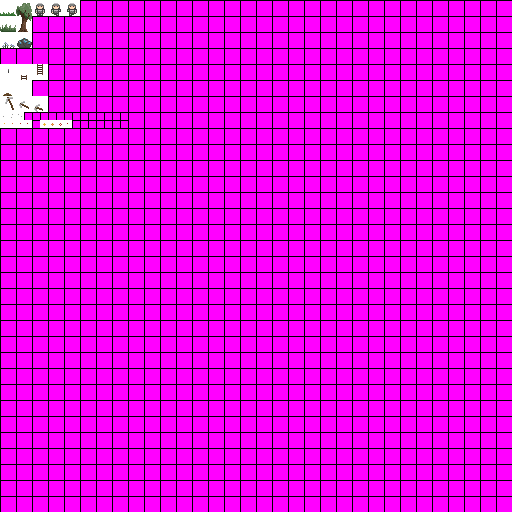
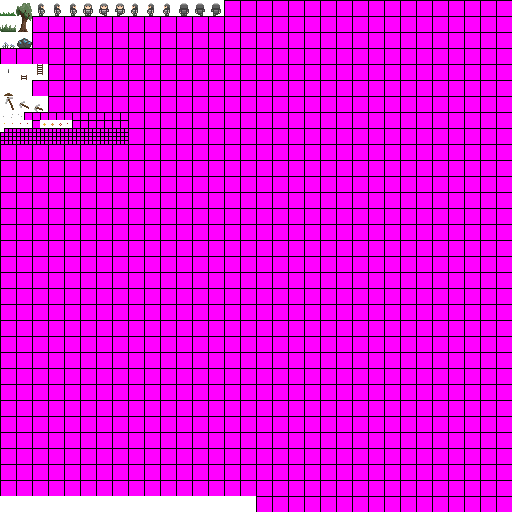
features + fixes

Changed region(s): [[0.0, 0.9688, 0.5, 1.0], [0.0625, 0.0, 0.4375, 0.0312], [0.0, 0.25, 0.25, 0.2812]]

diff --git a/core/src/ru/znay/znay/tt/GoldMiner.java b/core/src/ru/znay/znay/tt/GoldMiner.java
@@ -24,6 +24,7 @@ public class GoldMiner extends Game {
 
     private PerspectiveCamera camera;
     private OrthographicCamera scaledCamera;
+    private OrthographicCamera guiCamera;
     private FrameBuffer sceneBuffer;
 
     private int tickTime = 0;
@@ -41,7 +42,7 @@ public class GoldMiner extends Game {
 
         camera = new PerspectiveCamera(70.0f, C.WIDTH, C.HEIGHT);
         camera.near = 1f;
-        camera.far = 300f;
+        camera.far = 2000f;
         camera.update();
 
         scaledCamera = new OrthographicCamera();
@@ -50,6 +51,11 @@ public class GoldMiner extends Game {
         scaledCamera.update();
 
         viewport = new ExtendViewport(C.WIDTH, C.HEIGHT, scaledCamera);
+
+        guiCamera = new OrthographicCamera();
+        guiCamera.position.set(C.WIDTH / 2.0f, C.HEIGHT / 2.0f, 0);
+        guiCamera.setToOrtho(true, C.WIDTH, C.HEIGHT);
+        guiCamera.update();
 
         Gdx.gl.glEnable(GL20.GL_DEPTH_TEST);
         Gdx.gl.glDepthMask(true);
@@ -154,6 +160,8 @@ public class GoldMiner extends Game {
         sb.reset();
 
         renderPlayerItem(sb);
+        renderGui();
+
         sceneBuffer.end();
 
         scaledCamera.update();
@@ -165,13 +173,33 @@ public class GoldMiner extends Game {
         sb2d.setProjectionMatrix(scaledCamera.combined);
         sb2d.begin();
         sb2d.draw(sceneBuffer.getColorBufferTexture(), 0, 0);
-        renderGui(sb2d);
         sb2d.end();
         Gdx.gl.glEnable(GL20.GL_CULL_FACE);
     }
 
-    private void renderGui(SpriteBatch sb2d) {
-        //Art.i.font.draw(sb2d, "FPS: " + Gdx.graphics.getFramesPerSecond(), 1, 1);
+    private void renderGui() {
+        guiCamera.update();
+        Gdx.gl.glDisable(GL20.GL_CULL_FACE);
+
+        SpriteBatch sb2d = Art.i.spriteBatch2D;
+        sb2d.setProjectionMatrix(guiCamera.combined);
+        sb2d.begin();
+
+
+        int x = 2;
+        int y = 2;
+
+        Art.i.drawString(sb2d, "HP", x, y, Color.GOLD);
+        Art.i.drawProgressBar(sb2d, x + 16, y, 6, C.BAR_HP_COLOR, C.BAR_EMPTY_COLOR, player.health / (float) player.maxHealth, 5);
+
+        y += 6;
+
+        Art.i.drawString(sb2d, "ST", x, y, Color.GOLD);
+        Art.i.drawProgressBar(sb2d, x + 16, y, 6, C.BAR_ST_COLOR, C.BAR_EMPTY_COLOR, player.stamina / (float) player.maxStamina, 5);
+
+
+        sb2d.end();
+        Gdx.gl.glEnable(GL20.GL_CULL_FACE);
     }
 
     private void renderPlayerItem(SpriteBatch3D sb) {
@@ -217,11 +245,15 @@ public class GoldMiner extends Game {
         Gdx.gl.glEnable(GL20.GL_BLEND);
         Gdx.gl.glBlendFunc(GL20.GL_SRC_ALPHA, GL20.GL_ONE_MINUS_SRC_ALPHA);
 
+
+
         pb.begin(Art.i.planeShader, camera);
+        level.applyToShader(Art.i.planeShader);
         pb.render();
         pb.end();
 
         sb.begin(Art.i.billboardShader, camera);
+        level.applyToShader(Art.i.billboardShader);
         sb.render();
         sb.end();
     }

diff --git a/core/src/ru/znay/znay/tt/level/Level.java b/core/src/ru/znay/znay/tt/level/Level.java
@@ -12,6 +12,7 @@ import ru.znay.znay.tt.entity.Player;
 import ru.znay.znay.tt.entity.ore.Ore;
 import ru.znay.znay.tt.gfx.*;
 import ru.znay.znay.tt.gfx.light.Light;
+import ru.znay.znay.tt.gfx.shader.Shader;
 import ru.znay.znay.tt.level.block.*;
 import ru.znay.znay.tt.particle.Particle;
 
@@ -26,12 +27,13 @@ public class Level {
     public final int w;
     public final int h;
     public final GoldMiner game;
+    public final float illumination;
     public Block[] blocks;
     public Block solidWall = new WaterBlock(null, -1, -1);
     public List<Entity> entities = new ArrayList<Entity>();
     public List<Light> lights = new ArrayList<Light>();
     public List<Particle> particles = new ArrayList<Particle>();
-
+    public Player player;
 
     private static Vector3[] colors = {
             new Vector3(1.0f, 1.0f, 1.0f),
@@ -66,6 +68,7 @@ public class Level {
         this.h = h;
         this.level = level;
         this.blocks = new Block[w * h];
+        this.illumination = level >= 0 ? 1.0f : 1.0f / (Math.abs(level) + 1);
     }
 
     public static Level loadLevel(GoldMiner game, int level) {
@@ -161,8 +164,10 @@ public class Level {
         if (col == 0x008C00) return new TreeBlock(this, x, z);
         if (col == 0xFF7921) return new TorchBlock(this, x, z);
         if (col == 0x821C1C) return new FireBlock(this, x, z);
-        if ((col & 0xFF00FF) == 0xFF00FF && ((col >> 8) & 0xFF) < 0x80) return new StairBlock(this, x, z, false, (col >> 8) & 0xff);
-        if ((col & 0xFF00FF) == 0xFF00FF && ((col >> 8) & 0xFF) > 0x80) return new StairBlock(this, x, z, true, 128 - ((col >> 8) & 0xff));
+        if ((col & 0xFF00FF) == 0xFF00FF && ((col >> 8) & 0xFF) < 0x80)
+            return new StairBlock(this, x, z, false, (col >> 8) & 0xff);
+        if ((col & 0xFF00FF) == 0xFF00FF && ((col >> 8) & 0xFF) > 0x80)
+            return new StairBlock(this, x, z, true, 128 - ((col >> 8) & 0xff));
         if (col == 0x00A08D) return new WaterBlock(this, x, z);
         return new Block(this, x, z);
     }
@@ -171,6 +176,9 @@ public class Level {
         entities.add(e);
         e.init(this);
         e.updatePos();
+        if (e instanceof Player) {
+            this.player = (Player) e;
+        }
     }
 
     public void addParticle(Particle p) {
@@ -315,5 +323,9 @@ public class Level {
                 }
             }
         }
+    }
+
+    public void applyToShader(Shader shader) {
+        shader.shaderProgram.setUniformf("u_illumination", illumination);
     }
 }

diff --git a/core/src/ru/znay/znay/tt/gfx/Art.java b/core/src/ru/znay/znay/tt/gfx/Art.java
@@ -1,14 +1,17 @@
 package ru.znay.znay.tt.gfx;
 
 import com.badlogic.gdx.Gdx;
+import com.badlogic.gdx.graphics.Color;
 import com.badlogic.gdx.graphics.Pixmap;
 import com.badlogic.gdx.graphics.Texture;
 import com.badlogic.gdx.graphics.g2d.BitmapFont;
 import com.badlogic.gdx.graphics.g2d.SpriteBatch;
+import com.badlogic.gdx.graphics.g2d.TextureRegion;
 import com.badlogic.gdx.graphics.glutils.ShaderProgram;
 import ru.znay.znay.tt.gfx.light.ShadowMap;
 import ru.znay.znay.tt.gfx.shader.*;
 import ru.znay.znay.tt.tool.R;
+
 
 /**
  * Created by admin on 19.06.2016.
@@ -34,9 +37,9 @@ public class Art {
         sheet = R.i.register(new Texture(Gdx.files.internal("sheet.png")));
         blocks = R.i.register(new Texture(Gdx.files.internal("blocks.png")));
         dithering = R.i.register(createDitheringTexture());
-        font = R.i.register(new BitmapFont(Gdx.files.internal("fonts/font.fnt"), true));
-        font.getRegion().getTexture().setFilter(Texture.TextureFilter.Nearest, Texture.TextureFilter.Nearest);
-        font.getData().setScale(0.2f);
+        font = R.i.register(new BitmapFont(Gdx.files.internal("fonts/font8h.fnt"), true));
+        //font.getRegion().getTexture().setFilter(Texture.TextureFilter.Nearest, Texture.TextureFilter.Nearest);
+        //font.getData().setScale(0.2f);
         planeBatch = R.i.register(new PlaneBatch(3500, blocks));
         spriteBatch2D = R.i.register(new SpriteBatch());
         billboardBatch = R.i.register(new SpriteBatch3D(3500, sheet));
@@ -92,5 +95,23 @@ public class Art {
         Texture levelTexture = R.i.register(new Texture(Gdx.files.internal(filePath)));
         levelTexture.getTextureData().prepare();
         return R.i.register(levelTexture.getTextureData().consumePixmap());
+    }
+
+    public void drawString(SpriteBatch sb2d, String msg, int x, int y, Color color) {
+        Art.i.font.setColor(Color.GRAY);
+        Art.i.font.draw(sb2d, msg, x - 1, y);
+        Art.i.font.setColor(color);
+        Art.i.font.draw(sb2d, msg, x, y);
+    }
+
+    public void drawProgressBar(SpriteBatch sb2d, float x, float y, int width, Color fill, Color empty, float p, float scale) {
+        for (int i = 0; i < width; i++) {
+            sb2d.setColor(fill);
+            if ((i + 1) / (float) width > p) {
+                sb2d.setColor(empty);
+            }
+            sb2d.draw(Art.i.sheet, x + i * scale, y, scale, scale, 0, 16 * 8, 1, 1, false, false);
+        }
+        sb2d.setColor(Color.WHITE);
     }
 }

diff --git a/core/src/ru/znay/znay/tt/entity/Player.java b/core/src/ru/znay/znay/tt/entity/Player.java
@@ -19,10 +19,15 @@ public class Player extends Mob {
     public float turnBob = 0.0f;
     public Item item = Item.pick;
     public int itemUseTime = 0;
+    public int stamina;
+    public int staminaRecharge;
+    public int staminaRechargeDelay;
+    public int maxStamina = 10;
 
     public Player(float x, float y, float z) {
         super(x, y, z);
         rot = (float) -Math.PI / 2.0f;
+        stamina = maxStamina;
     }
 
     public void tick(boolean up, boolean down, boolean left, boolean right, boolean turnLeft, boolean turnRight) {
@@ -35,6 +40,22 @@ public class Player extends Mob {
                     interact(x - (float) Math.sin(rot) * 8.0f, -4 - random.nextInt(3), z - (float) Math.cos(rot) * 8.0f);
                     item.animation.stop();
                 }
+            }
+        }
+
+        if (stamina <= 0 && staminaRechargeDelay == 0 && staminaRecharge == 0) {
+            staminaRechargeDelay = 40;
+        }
+
+        if (staminaRechargeDelay > 0) {
+            staminaRechargeDelay--;
+        }
+
+        if (staminaRechargeDelay == 0) {
+            staminaRecharge++;
+            while (staminaRecharge > 10) {
+                staminaRecharge -= 10;
+                if (stamina < maxStamina) stamina++;
             }
         }
 
@@ -56,8 +77,10 @@ public class Player extends Mob {
         xm /= dd;
         zm /= dd;
 
-        xa += (xm * Math.cos(rot) + zm * Math.sin(rot)) * walkSpeed;
-        za += (zm * Math.cos(rot) - xm * Math.sin(rot)) * walkSpeed;
+        if (staminaRechargeDelay % 2 == 0) {
+            xa += (xm * Math.cos(rot) + zm * Math.sin(rot)) * walkSpeed;
+            za += (zm * Math.cos(rot) - xm * Math.sin(rot)) * walkSpeed;
+        }
 
         move();
 
@@ -94,8 +117,17 @@ public class Player extends Mob {
     }
 
     public void use() {
+        if (stamina == 0) return;
         if (item == null) return;
         if (itemUseTime > 0) return;
+        stamina--;
+        staminaRecharge = 0;
         itemUseTime = item.animation.time * item.animation.frames;
+    }
+
+    public boolean payStamina(int cost) {
+        if (cost > stamina) return false;
+        stamina -= cost;
+        return true;
     }
 }

diff --git a/core/src/ru/znay/znay/tt/entity/Enemy.java b/core/src/ru/znay/znay/tt/entity/Enemy.java
@@ -25,14 +25,21 @@ public class Enemy extends Mob {
         xa *= friction;
         za *= friction;
         tickTime++;
-        int frame = steps[(int)movement / 10 % steps.length];
+        int frame = steps[(int) movement / 10 % steps.length];
+        if (level.player != null) {
+            float r = level.player.rot - rot;
+            while (r <= -Math.PI) r += Math.PI * 2.0;
+            while (r >= Math.PI) r -= Math.PI * 2.0;
+            int f = (int) Math.floor(r * 4 / (Math.PI * 2.0) - 0.5) & 3;
+            frame += f * 3;
+        }
         sprite.set(32 + frame * 16, 0, 16, 16);
     }
 
     protected Order getNextOrder() {
         Order order = Order.idle;
         if (Math.random() < 0.2) {
-           // order = new MoveOrder(x + (float)(Math.random() * 2.0 - 1.0) * 8.0f, z + (float)(Math.random() * 2.0 - 1.0) * 8.0f);
+            // order = new MoveOrder(x + (float)(Math.random() * 2.0 - 1.0) * 8.0f, z + (float)(Math.random() * 2.0 - 1.0) * 8.0f);
         }
         return order;
     }

diff --git a/core/src/ru/znay/znay/tt/entity/ore/Ore.java b/core/src/ru/znay/znay/tt/entity/ore/Ore.java
@@ -1,6 +1,7 @@
 package ru.znay.znay.tt.entity.ore;
 
 import ru.znay.znay.tt.entity.Entity;
+import ru.znay.znay.tt.entity.Player;
 import ru.znay.znay.tt.entity.item.Item;
 import ru.znay.znay.tt.gfx.Sprite3D;
 import ru.znay.znay.tt.particle.CrashParticle;
@@ -22,9 +23,9 @@ public class Ore extends Entity {
         }
     }
 
-    public void interactWith(Entity e, Item item, float xx, int yy, float zz) {
+    public void interactWith(Player player, Item item, float xx, int yy, float zz) {
         if (removed) return;
-        if (item == Item.pick) {
+        if (item == Item.pick && player.payStamina(4)) {
             for (int j = 0; j < 10; j++) {
                 level.addParticle(new SparkParticle(xx, yy, zz));
             }
@@ -43,6 +44,7 @@ public class Ore extends Entity {
                 }
                 spriteLife = 5;
             }
+
         }
     }
 }

diff --git a/core/src/ru/znay/znay/tt/C.java b/core/src/ru/znay/znay/tt/C.java
@@ -6,12 +6,17 @@ import com.badlogic.gdx.graphics.Color;
  * Created by admin on 18.06.2016.
  */
 public class C {
-    public static final int WIDTH = 160;
-    public static final int HEIGHT = WIDTH * 9 / 12;
-    public static final int DESKTOP_SCALE = 512 / WIDTH;
+    public static final int WIDTH = 320;
+    public static final int HEIGHT = WIDTH * 9 / 12 ;
+    public static final int DESKTOP_SCALE = 1024 / WIDTH;
 
     public static final int DEPTH_MAP_SIZE = WIDTH;
 
     public static Color FOG_COLOR = new Color(0.0f, 0.0f, 0.1f, 1.0f);
+
+    public static float BAR_ALPHA = 0.9f;
+    public static Color BAR_HP_COLOR = new Color(1.0f, 0.3f, 0.1f, BAR_ALPHA);
+    public static Color BAR_ST_COLOR = new Color(1.0f, 1.0f, 0.2f, BAR_ALPHA);
+    public static Color BAR_EMPTY_COLOR = new Color(0.5f, 0.5f, 0.5f, BAR_ALPHA);
 
 }

diff --git a/core/src/ru/znay/znay/tt/level/block/FireBlock.java b/core/src/ru/znay/znay/tt/level/block/FireBlock.java
@@ -23,10 +23,12 @@ public class FireBlock extends Block {
     public void tick(Level level) {
         super.tick(level);
         if (level.tickTime % 2 == 0) {
-            float x = (random.nextFloat() - 0.5f) * 5.0f;
-            float z = (random.nextFloat() - 0.5f) * 5.0f;
-            Particle p = new FireParticle(xt * 16 + x, -6, zt * 16 + z);
-            level.addParticle(p);
+            for (int i = 0; i < random.nextInt(5); i++) {
+                float x = (random.nextFloat() - 0.5f) * 4.0f;
+                float z = (random.nextFloat() - 0.5f) * 4.0f;
+                Particle p = new FireParticle(xt * 16 + x, -6, zt * 16 + z);
+                level.addParticle(p);
+            }
         }
         if (level.tickTime % 60 == 0) {
             pointLight.needsUpdate = true;

diff --git a/core/src/ru/znay/znay/tt/entity/Mob.java b/core/src/ru/znay/znay/tt/entity/Mob.java
@@ -9,9 +9,13 @@ public class Mob extends Entity {
     public float rotSpeed = 0.02f;
     public float walkSpeed = 0.23f;
     public Order order = Order.idle;
+    public int health;
+    public int maxHealth;
 
     public Mob(float x, float y, float z) {
         super(x, y, z);
+        health = maxHealth = 10;
+        health -= 3;
     }
 
     public final void setOrder(Order order) {

diff --git a/core/src/ru/znay/znay/tt/entity/Entity.java b/core/src/ru/znay/znay/tt/entity/Entity.java
@@ -129,7 +129,7 @@ public class Entity {
         removed = true;
     }
 
-    public void interactWith(Entity e, Item item, float xx, int yy, float zz) {
+    public void interactWith(Player player, Item item, float xx, int yy, float zz) {
 
     }
 }
